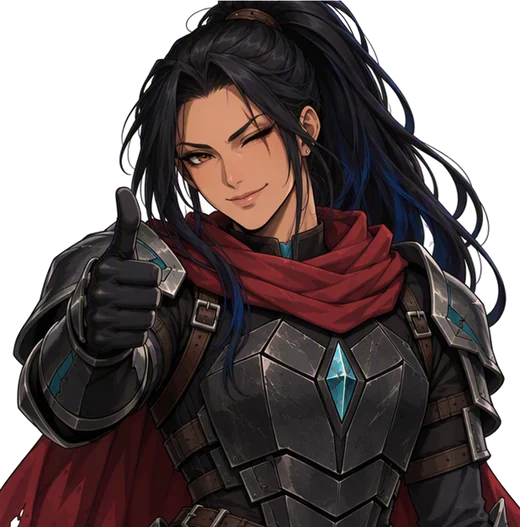
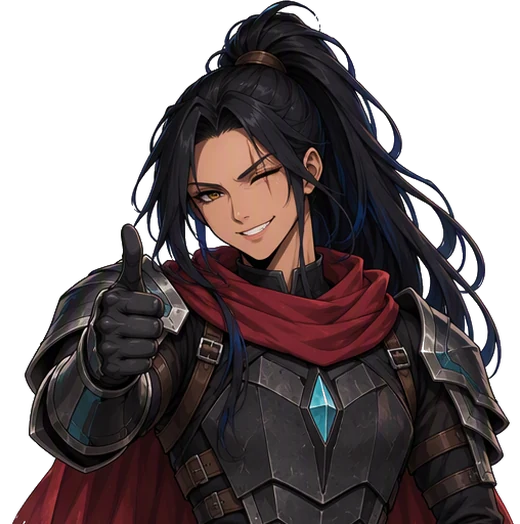
Neue Leona-Bilder mit vollständigen Haaren, sauber freigestellt
Claude-Session: https://claude.ai/code/session_011Xd9JxnCHEYBS9DLSzndHq

diff --git a/sw.js b/sw.js
@@ -1,5 +1,5 @@
 // Offline-Unterstützung: App-Dateien werden zwischengespeichert.
-const CACHE = 'bunter-kalender-v36';
+const CACHE = 'bunter-kalender-v37';
 const FILES = ['./', 'index.html', 'manifest.webmanifest', 'icon-192.png', 'icon-512.png', 'apple-touch-icon.png', 'leona-smirk.webp', 'leona-cheer.webp', 'leona-wink.webp', 'leona-calm.webp'];
 self.addEventListener('install', e => {
   e.waitUntil(caches.open(CACHE).then(c => c.addAll(FILES)).then(() => self.skipWaiting()));
